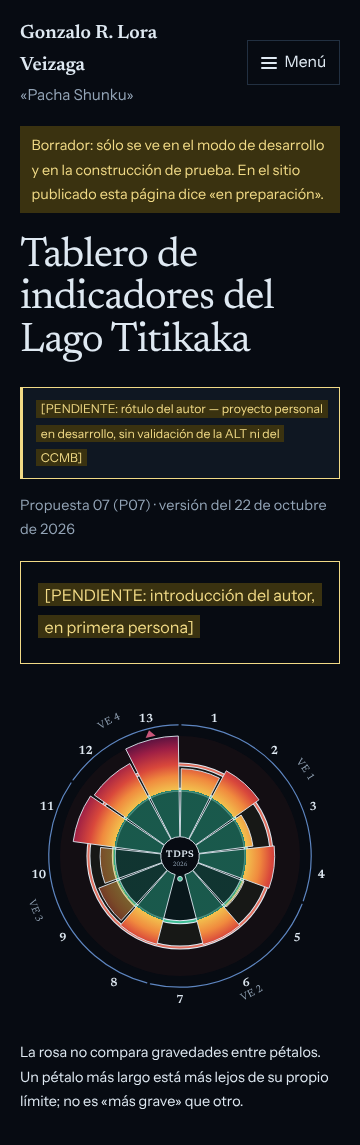
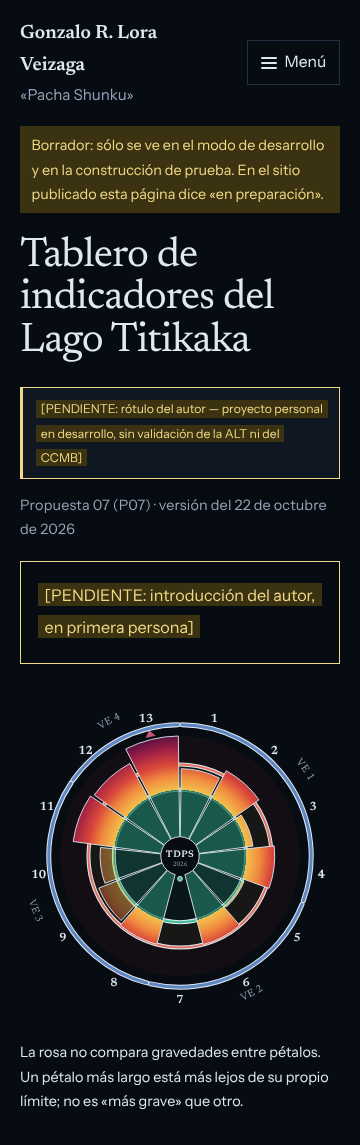
Tablero: filetes en el arco de VE y pendientes en PENDIENTES.md
Decisiones del autor (22-10-2026):
- El arco de cada variable estructurante lleva, como los círculos, el trazo de color entre
  dos filetes del color del texto (non-scaling-stroke). La paleta no cambia.
- Contraste medido de nuevo (docs/tablero/contraste-figura.md) en los seis temas, claro y
  oscuro: todo objeto gráfico de la rosa cumple 3:1; el arco en crema claro (2.91 solo) queda
  cubierto por sus filetes.
- PENDIENTES.md: sección «Tablero de indicadores» con tipografía, textos, campo herramienta,
  Balance P − ETP, fuentes primarias de 12 pétalos, convención D, referencia del nivel,
  referencias APA y paso a draft: false; remite a la bitácora del chat 7.
- Capturas e imagen de muestra regeneradas.

Claude-Session: https://claude.ai/code/session_01LWoJiaGhtJnVEGq83pFwgw

diff --git a/src/lib/tablero.ts b/src/lib/tablero.ts
@@ -302,7 +302,12 @@ export function svgRosa(petalos: PetaloRosa[], o: OpcionesRosa): string {
     if (indices.length === 0) continue;
     const desde = indices[0] * paso + HUECO_GRADOS / 2;
     const hasta = (indices[indices.length - 1] + 1) * paso - HUECO_GRADOS / 2;
-    partes.push(`<path d="${arco(desde, hasta, R_ARCO)}" fill="none" stroke="${c.arcoVE}" stroke-width="3" stroke-linecap="round"/>`);
+    // Como los círculos: el trazo de color entre dos filetes del color del texto (WCAG 1.4.11).
+    const d = arco(desde, hasta, R_ARCO);
+    partes.push(
+      `<path d="${d}" fill="none" stroke="${contorno}" stroke-width="5" stroke-linecap="round" vector-effect="non-scaling-stroke"/>` +
+        `<path d="${d}" fill="none" stroke="${c.arcoVE}" stroke-width="3" stroke-linecap="round" vector-effect="non-scaling-stroke"/>`,
+    );
     if (!conTextos) continue;
     const medio = (desde + hasta) / 2;
     const abajo = medio > 90 && medio < 270;

diff --git a/docs/tablero/contraste-figura.md b/docs/tablero/contraste-figura.md
@@ -1,72 +1,58 @@
 # Tablero: contraste de los objetos gráficos de la rosa
 
-Criterio WCAG 2.1, 1.4.11 (contraste no textual): 3:1 contra el color adyacente. Se mide contra el fondo de página de las dos direcciones, en claro y en oscuro (valores de `src/styles/temas/noche.css` y `crema.css`; los temas no se tocaron). Los colores con opacidad se mezclan antes con el fondo. ✗ = por debajo de 3:1.
+Criterio WCAG 2.1, 1.4.11 (contraste no textual): 3:1 contra el color adyacente. Se mide contra el fondo de página de cada tema, en claro y en oscuro (valores de `src/styles/temas/`; los temas no se tocaron). Los colores con opacidad se mezclan antes con el fondo. ✗ = por debajo de 3:1.
 
-## Medición con contorno (vigente, 22-10-2026)
+## Cómo está dibujada la figura (decisiones del autor, 22-10-2026)
 
-Decisión del autor (22-10-2026): contorno fino en `currentColor` alrededor de pétalos y círculos, sin cambiar la paleta.
+- **Pétalos y punto «en la referencia»:** contorno de 0.9 px del color del texto del tema (`currentColor`).
+- **Círculos de límite y alto riesgo, y arco de cada variable estructurante (VE):** el trazo de color va entre dos filetes de 1 px del color del texto. La paleta no cambia.
+- **Triángulo de fuera de escala:** sin contorno; su color contrasta solo en todos los fondos.
+- Los grosores son en píxeles de pantalla (`vector-effect: non-scaling-stroke`): no se adelgazan en el teléfono.
+- En la imagen para compartir, contorno y filetes toman el color del texto del tema publicado.
 
-- Cada pétalo y el punto «en la referencia» llevan un contorno de 0.9 px del color del texto del tema.
-- Cada círculo (límite y alto riesgo) es un trazo de color de 2 px entre dos filetes de 1 px del color del texto.
-- Los grosores son en píxeles de pantalla (`vector-effect: non-scaling-stroke`): no se adelgazan cuando la rosa se achica en el teléfono.
-- En la imagen para compartir, el contorno toma el color del texto del tema publicado.
+## Medición del 23-10-2026
 
-### Contorno contra lo que lo rodea
-
-El contorno es el color del texto del tema (`currentColor`). Mínimo 3:1.
-
-| | noche claro | noche oscuro | crema claro | crema oscuro |
-|---|---:|---:|---:|---:|
-| Fondo de página | 17.45 | 16.02 | 13.81 | 14.86 |
-| Zona verde (z 0-1, 10%) | 15.48 | 14.74 | 12.38 | 13.56 |
-| Zona ámbar (z 1-2, 7%) | 16.88 | 14.49 | 13.57 | 13.13 |
-| Zona roja (z 2-3.5, 6%) | 16.22 | 15.41 | 12.89 | 14.13 |
-
-noche claro: texto #0b1016, fondo #f2f5f8 · noche oscuro: texto #dfe9f2, fondo #070b12 · crema claro: texto #1f1712, fondo #e8e3da · crema oscuro: texto #ede5da, fondo #18120e
-
-### Colores de la figura contra el fondo, sin contorno
-
-La misma medida de la primera versión, para comparar. Con contorno, la frontera de cada pétalo, del punto y de los círculos ya no depende de estos números.
-
-| Objeto | Color | noche claro | noche oscuro | crema claro | crema oscuro |
-|---|---|---:|---:|---:|---:|
-| Círculo límite (z = 1) | #3FBF95 | 2.11 ✗ | 8.54 | 1.81 ✗ | 8.04 |
-| Círculo alto riesgo (z = 2) | #E0705F | 2.88 ✗ | 6.24 | 2.47 ✗ | 5.88 |
-| Arco de VE (sin contorno) | #5E86C1 | 3.39 | 5.31 | 2.91 ✗ | 5.00 |
-| Triángulo fuera de escala (sin contorno) | #C9567A | 3.77 | 4.78 | 3.22 | 4.50 |
-| Punto en la referencia | #3FBF95 | 2.11 ✗ | 8.54 | 1.81 ✗ | 8.04 |
-| Pétalo, dentro del límite | #1F6F5C (opacidad 0.75) | 3.33 | 2.32 ✗ | 3.05 | 2.25 ✗ |
-| Pétalo, z = 1 (ámbar) | #F2C14E | 1.53 ✗ | 11.74 | 1.31 ✗ | 11.06 |
-| Pétalo, z = 1.5 | #F08A3E | 2.28 ✗ | 7.89 | 1.95 ✗ | 7.43 |
-| Pétalo, z = 2 | #D9483B | 3.88 | 4.64 | 3.33 | 4.37 |
-| Pétalo, z = 2.8 | #9E1F45 | 7.02 | 2.57 ✗ | 6.01 | 2.42 ✗ |
-| Pétalo, z = 3.5 | #5B1240 | 11.95 | 1.51 ✗ | 10.24 | 1.42 ✗ |
-| Pétalo incierto, dentro del límite | #1F6F5C (opacidad 0.338) | 1.63 ✗ | 1.34 ✗ | 1.58 ✗ | 1.34 ✗ |
-| Pétalo incierto, ámbar | #F2C14E (opacidad 0.45) | 1.21 ✗ | 3.10 | 1.13 ✗ | 3.16 |
-| Pétalo incierto, z = 2 | #D9483B (opacidad 0.45) | 1.84 ✗ | 1.75 ✗ | 1.74 ✗ | 1.79 ✗ |
-
-### Círculos contra su filete
-
-El trazo de color va entre dos filetes del color del texto; se mide el color contra el filete.
+### Direcciones del rediseño («noche» y «crema»)
 
 | | noche claro | noche oscuro | crema claro | crema oscuro |
 |---|---:|---:|---:|---:|
-| Límite (#3FBF95) | 8.27 | 1.88 ✗ | 7.65 | 1.85 ✗ |
-| Alto riesgo (#E0705F) | 6.05 | 2.57 ✗ | 5.59 | 2.53 ✗ |
+| Contorno contra el fondo | 17.45 | 16.02 | 13.81 | 14.86 |
+| Contorno contra la zona verde (10%) | 15.48 | 14.74 | 12.38 | 13.56 |
+| Contorno contra la zona ámbar (7%) | 16.88 | 14.49 | 13.57 | 13.13 |
+| Contorno contra la zona roja (6%) | 16.22 | 15.41 | 12.89 | 14.13 |
+| Arco de VE (#5E86C1) contra el fondo | 3.39 | 5.31 | 2.91 ✗ | 5.00 |
+| Círculo de límite (#3FBF95) contra el fondo | 2.11 ✗ | 8.54 | 1.81 ✗ | 8.04 |
+| Círculo de alto riesgo (#E0705F) contra el fondo | 2.88 ✗ | 6.24 | 2.47 ✗ | 5.88 |
+| Triángulo (#C9567A, sin contorno) contra el fondo | 3.77 | 4.78 | 3.22 | 4.50 |
+
+### Temas de base (provisorio, A, B y C)
+
+| | provisorio claro | provisorio oscuro | a claro | a oscuro | b claro | b oscuro | c claro | c oscuro |
+|---|---:|---:|---:|---:|---:|---:|---:|---:|
+| Contorno contra el fondo | 15.33 | 14.15 | 15.12 | 14.42 | 14.00 | 14.00 | 16.29 | 14.90 |
+| Contorno contra la zona verde (10%) | 13.60 | 12.78 | 13.43 | 12.96 | 12.48 | 12.71 | 14.46 | 13.51 |
+| Contorno contra la zona ámbar (7%) | 14.82 | 12.41 | 14.63 | 12.69 | 13.65 | 12.20 | 15.75 | 13.14 |
+| Contorno contra la zona roja (6%) | 14.16 | 13.45 | 13.95 | 13.80 | 13.01 | 13.30 | 15.05 | 14.23 |
+| Arco de VE (#5E86C1) contra el fondo | 3.50 | 4.87 | 3.45 | 4.89 | 3.32 | 4.78 | 3.59 | 4.97 |
+| Círculo de límite (#3FBF95) contra el fondo | 2.18 ✗ | 7.83 | 2.14 ✗ | 7.87 | 2.07 ✗ | 7.69 | 2.23 ✗ | 7.99 |
+| Círculo de alto riesgo (#E0705F) contra el fondo | 2.98 ✗ | 5.73 | 2.93 ✗ | 5.75 | 2.82 ✗ | 5.62 | 3.05 | 5.84 |
+| Triángulo (#C9567A, sin contorno) contra el fondo | 3.89 | 4.39 | 3.83 | 4.41 | 3.69 | 4.31 | 3.98 | 4.47 |
+
+Las cuatro primeras filas miden el contorno y los filetes (el color del texto) contra el fondo y contra las zonas tenues de la figura. Las demás miden los colores fijos solos, sin el filete.
 
 ## Lectura
 
-- **Pétalos y punto «en la referencia»: cumplen en los cuatro fondos.** La frontera de cada uno la marca el contorno, que contrasta entre 12.38:1 y 17.45:1 con el fondo y con las tres zonas tenues. Vale también para los pétalos inciertos, que antes no llegaban a 3:1 en ningún fondo.
-- **Círculos: cumplen en los cuatro fondos.** En modo claro los separan del fondo los filetes del color del texto (13.81:1 a 17.45:1 contra el fondo). En modo oscuro el trazo de color ya contrasta solo con el fondo (círculo de límite 8.04-8.54; alto riesgo 5.88-6.24). En oscuro el trazo de color y su filete claro se parecen (1.85-2.57), pero eso no afecta: lo que tiene que contrastar es el círculo contra el fondo, no el círculo contra su propio filete.
-- **Sin contorno, por decisión de alcance:**
-  - El arco de VE no llega en crema claro (2.91:1); en los otros tres fondos pasa.
-  - El triángulo de fuera de escala pasa en los cuatro fondos (3.22-4.78).
-- **El color dentro de cada pétalo** (verde → ámbar → rojo → vino) no tiene contraste propio garantizado entre tramos ni contra el contorno. No hace falta para leer la figura: z la dicen también el largo del pétalo, los círculos y la tabla.
+- **Todo objeto gráfico de la rosa cumple 3:1 en los doce fondos** (seis temas, en claro y en oscuro).
+- **Pétalos y punto «en la referencia».** Su borde lo marca el contorno: entre 12.20:1 y 17.45:1 contra el fondo y las zonas tenues.
+- **Círculos y arco de VE.**
+  - En modo claro los separan del fondo los filetes, con el mismo contraste que el contorno.
+  - En modo oscuro el color solo ya pasa: arco 4.78-5.31, círculo de límite 7.69-8.54, círculo de alto riesgo 5.62-6.24.
+  - Los ✗ de esas filas son el color solo en fondo claro, donde el filete se encarga del contraste.
+  - El arco en crema claro (2.91:1 solo) era lo único que quedaba por debajo en la medición anterior. Ahora lo cubren sus filetes.
+- **Triángulo de fuera de escala.** Pasa solo, sin contorno, en todos los fondos: 3.22-4.78.
+- **El color dentro de cada pétalo** (verde → ámbar → rojo → vino) no tiene contraste garantizado entre tramos. No hace falta para leer la figura: z la dicen también el largo del pétalo, los círculos y la tabla.
 
-## Medición sin contorno (anterior, 22-10-2026)
+## Mediciones anteriores
 
-La tabla «Colores de la figura contra el fondo, sin contorno» de arriba es esa medición. En resumen: sólo el triángulo y el rojo de z = 2 llegaban a 3:1 en los cuatro fondos. Los colores claros fallaban sobre fondo claro, los oscuros sobre fondo oscuro, y los pétalos inciertos en todos.
-
-## Pendiente (decisión del autor)
-
-- Si el arco de VE lleva también contorno o filetes (es lo único que queda por debajo de 3:1, en crema claro).
+- **22-10-2026, sin contorno.** Sólo el triángulo y el rojo de z = 2 llegaban a 3:1 en «noche» y «crema», en claro y en oscuro. Los colores claros fallaban sobre fondo claro, los oscuros sobre fondo oscuro, y los pétalos inciertos (opacidad 0.45) en todos.
+- **22-10-2026, con contorno en pétalos y círculos.** Todo cumplía salvo el arco de VE en crema claro (2.91:1).

diff --git a/PENDIENTES.md b/PENDIENTES.md
@@ -52,6 +52,28 @@ Tres grupos: **datos del autor** (información que sólo él tiene), **decisione
 - [ ] Ensayos en la portada: las dos direcciones muestran los tres últimos ensayos en la portada (la maqueta de siempre sólo muestra el blog). Confirmar si se quiere así.
 - [ ] Sitios de referencia: el entorno donde se hizo el rediseño bloquea los dominios de las referencias de Awwwards (everest.suraj.work, 1000whales.com, moncalisse.com, beautiful-imperfections.com, alethia.earth y los demás), así que el diseño salió de la descripción del encargo, no de mirar los sitios vivos. Conviene que el autor compare las direcciones con las referencias que eligió.
 
+### Tablero de indicadores (22-10-2026)
+
+La página `/tablero/` está unida a `main` en borrador (`draft: true`): el sitio publicado sólo dice «en preparación». La lista completa de pendientes del tablero está en la bitácora del chat 7 del proyecto «Página web y blog»; acá van los que tocan el sitio. Los datos y los textos están en `src/content/tablero/p07.yaml`, y cómo se cambian, en `docs/tablero/COMO-ACTUALIZAR.md`.
+
+- [ ] **Tipografía de la figura.** Hoy hereda la del tema publicado. Se cambia en un solo lugar: `--fuente-tablero`, en `src/components/tablero/Rosa.astro`. Si se elige Lato, hay que autoalojarla (Fontsource, licencia OFL).
+- [ ] **Textos del autor**, hoy con relleno visible en el YAML (bloque `textos`):
+  - [PENDIENTE: rótulo del autor — proyecto personal en desarrollo, sin validación de la ALT ni del CCMB] (`rotulo`);
+  - [PENDIENTE: introducción del autor, en primera persona] (`introduccion`);
+  - [PENDIENTE: nota de método del autor] (`metodo`);
+  - el apoyo técnico de la nota de método (`metodo_apoyo`) es relleno redactado en la sesión: usarlo, reescribirlo o borrarlo.
+- [ ] **Campo `herramienta` del historial.** Hoy la página dice «Hecha con Claude» (P07) y «Hecha con Codex» (P06). Si se borra el campo de un YAML, esa línea no aparece.
+- [ ] **Balance P − ETP** (pétalo 7). La referencia (−242 mm/año) es igual al valor actual, así que el pétalo queda en z = 0 por construcción. Definir la referencia.
+- [ ] **Fuentes primarias de los valores de 12 pétalos** (2 al 13). Sólo Cohana (pétalo 1) tiene valor con fuente; los demás llevan «Cuadro 2 de Lora Veizaga (2026). [PENDIENTE: fuente primaria del valor]» en el campo `fuente`.
+- [ ] **Convención D.** Nueve pétalos (3, 4, 6, 7, 8, 9, 11, 12 y 13) tienen el alto riesgo por convención: el doble de la distancia entre la referencia y el límite, con asterisco. Confirmar o reemplazar por un criterio A, B o C con fuente.
+- [ ] **Referencia del nivel del lago** (pétalo 5). 3809.00 msnm es provisoria; por eso el valor va como provisorio e incierto.
+- [ ] **Referencias APA** de la lista de fuentes (`textos.fuentes`), hoy con [PENDIENTE]:
+  - Buytaert et al. (2017), Richardson et al. (2023) y Rockström et al. (2009): título, revista, volumen, páginas y DOI;
+  - Lazzaro et al. (2023): editorial, lugar y DOI o URL;
+  - Lora Veizaga (2026): título exacto y forma de publicación;
+  - Producto 4 de la CT BO-T1425: referencia completa.
+- [ ] **Pasar a `draft: false`** en `p07.yaml` cuando no quede ningún `[PENDIENTE` en el archivo. Mientras quede uno, la construcción no deja publicar. Con eso la página aparece completa, entra al buscador y se genera la imagen para compartir.
+
 ### «Sobre mí»
 
 - [ ] ¿En primera o en tercera persona? Hoy está en tercera, sólo con los datos confirmados del encargo inicial.

diff --git a/docs/tablero/COMO-ACTUALIZAR.md b/docs/tablero/COMO-ACTUALIZAR.md
@@ -73,9 +73,9 @@ Los nombres de las variables estructurantes (`variables`) salen en la figura, en
 ## La figura
 
 - Colores de pétalos y zonas: fijos, en `COLORES_ROSA` y `PARADAS` (`src/lib/tablero.ts`). No dependen del tema.
-- Contorno: pétalos, punto «en la referencia» y círculos llevan un contorno fino del color del texto del tema (`currentColor`), para que contrasten con cualquier fondo sin cambiar la paleta (decisión del autor, 22-10-2026).
+- Contorno: pétalos y punto «en la referencia» llevan un contorno fino del color del texto del tema (`currentColor`); los círculos y los arcos de VE, un filete de ese color a cada lado. Así contrastan con cualquier fondo sin cambiar la paleta (decisiones del autor, 22-10-2026).
 - Tipografía de la figura: `--fuente-tablero`, definida en un solo lugar (regla `.tablero` en `src/components/tablero/Rosa.astro`). Hoy hereda la del texto. Si se decide otra (por ejemplo Lato), hay que autoalojarla como las demás (paquete de Fontsource, licencia OFL) y poner su nombre en esa variable.
-- Contraste de los objetos gráficos contra los fondos de «noche» y «crema»: `docs/tablero/contraste-figura.md`.
+- Contraste de los objetos gráficos contra los fondos de todos los temas: `docs/tablero/contraste-figura.md`.
 
 ## Revisar antes de unir
 

diff --git a/docs/temas-contraste.md b/docs/temas-contraste.md
@@ -1,6 +1,6 @@
 # Contraste de los temas
 
-Generado con `npm run temas:contraste` el 2026-10-22. No editar a mano.
+Generado con `npm run temas:contraste` el 2026-10-23. No editar a mano.
 
 Criterio WCAG 2.1, nivel AA: texto sobre fondo, al menos 4.5:1; gráficos (ícono dentro del marcador del mapa y punto de capa sobre el fondo), al menos 3:1.
 
